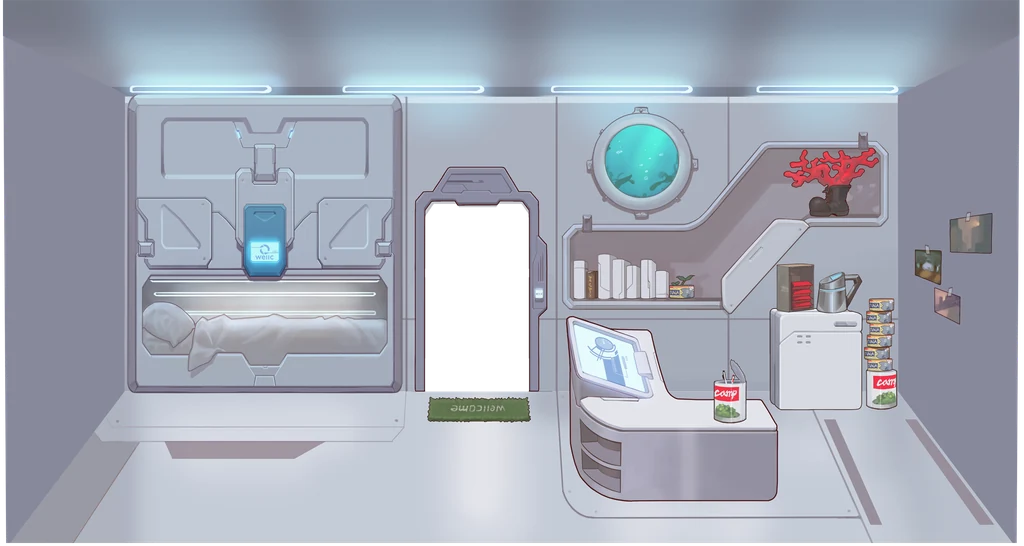
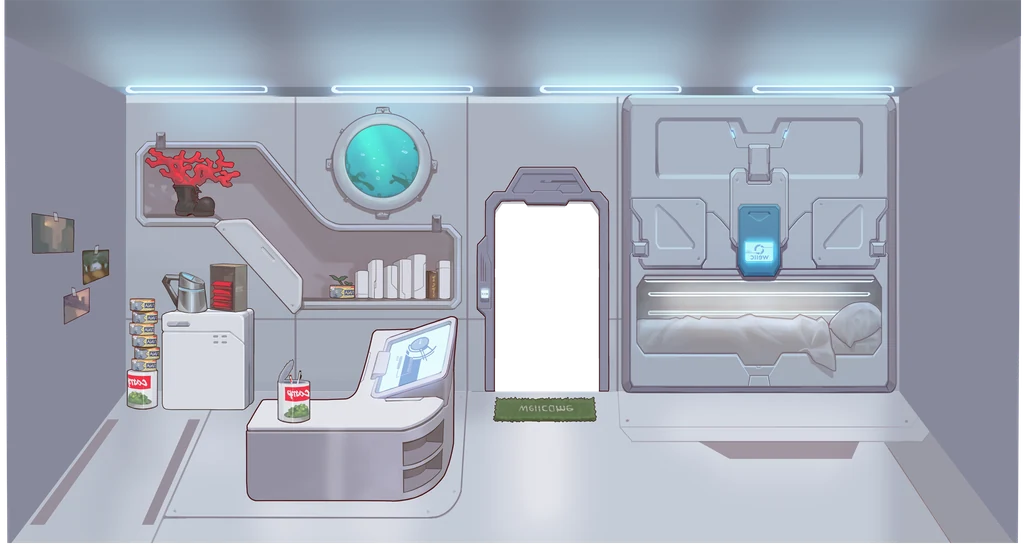
방·동굴 다듬기: 2장 철공 작업장은 원작 공장 내부, 3장 진지 지휘소는 원작 연구소 내부, 4장 드론 관제실은 어두운 시설 방, 함장실 그림을 뒤집어 깔개 글자를 바로, 방 이음선 없애기, 그림 속 받침대·책상 자리 막기, 4장 뒷벽을 동굴 바위와 종유석 천장으로

diff --git a/js/town.js b/js/town.js
@@ -134,8 +134,8 @@
       ],
       rooms: {
         cmd: Object.assign(ROOM('작업 지휘소', 'r_mm4_0', 365, ['#5a5a66', '#a9a7b8'], [D('town/r_mm4_11', 1, 2, 2, 1.7), D('town/r_mk0_3', 9, 2, 1, 1.5), D('town/r_andr2_42', 11, 2, 1, 1.6), D('town/r_iron1_7', 4, 6, 2, 0.8)]), { tint: '#ffe4c8' }),
-        shop: Object.assign(ROOM('철공 작업장', 'r_rein1_0', 355, ['#6b5552', '#b59d96'], [D('town/r_iron2_2', 1, 2, 2, 1.9), D('town/r_iron1_6', 10, 2, 2, 1.6), D('town/r_iron1_15', 10, 5, 2, 1.3)]), { tint: '#ffd9b8' }),
-        cafe: ROOM('배식소', 'r_cafe1_0', 268, ['#8f877a', '#ece7de'], [D('town/r_cafe1_2', 8, 2, 3, 1.9), D('town/r_cafe1_1', 4, 4, 3, 1.0), D('town/r_cafe1_1', 8, 5, 3, 1.0), D('town/r_cafe3_2', 1, 2, 1, 1.0), D('town/r_cafe2_3', 2, 2, 1, 0.6)]),
+        shop: Object.assign(ROOM('철공 작업장', 'r_factory', 355, ['#6b5552', '#b59d96'], [D('town/r_iron2_2', 1, 2, 2, 1.9), D('town/r_iron1_6', 10, 2, 2, 1.6), D('town/r_iron1_15', 10, 5, 2, 1.3)]), { tint: '#ffd9b8' }),
+        cafe: Object.assign(ROOM('배식소', 'r_cafe1_0', 268, ['#8f877a', '#ece7de'], [D('town/r_cafe1_2', 8, 2, 3, 1.9), D('town/r_cafe1_1', 4, 4, 3, 1.0), D('town/r_cafe1_1', 8, 5, 3, 1.0), D('town/r_cafe3_2', 1, 2, 1, 1.0), D('town/r_cafe2_3', 2, 2, 1, 0.6)]), { tint: '#ead8ba' }),
       },
     },
     // 3장 고갯길 진지: 81번 실험장 정문 앞 버려진 고갯마을. 빈집 셋을 진지로 쓰고, 모래주머니 기관총 진지와 모닥불
@@ -159,7 +159,7 @@
         EXIT(12, 17), ...NPC([13, 11], [9, 11], [20, 13]), CON(14, 16),
       ],
       rooms: {
-        cmd: ROOM('진지 지휘소', 'r_dis1_0', 355, ['#3f6b62', '#8fc0b3'], [D('town/r_mm2_2', 2, 2, 1, 1.6), D('town/r_dis1_10', 11, 2, 1, 1.8), D('tiles/crate1', 1, 6, 1, 1.0)]),
+        cmd: ROOM('진지 지휘소', 'r_lab', 355, ['#3f6b62', '#8fc0b3'], [D('town/r_mm2_2', 2, 2, 1, 1.6), D('town/r_dis1_10', 11, 2, 1, 1.8), D('tiles/crate1', 1, 6, 1, 1.0)]),
         shop: Object.assign(ROOM('무기고', 'r_rein2_0', 370, ['#6b5552', '#b59d96'], [D('town/r_res2_16', 1, 2, 1, 2.0), D('town/r_res1_8', 11, 2, 1, 1.8), D('tiles/crate1', 10, 5, 1, 1.0)]), { tint: '#eef2dc' }),
         cafe: Object.assign(ROOM('야전 식당', 'r_cafe2_0', 268, ['#8f877a', '#ece7de'], [D('town/r_cafe2_1', 3, 4, 3, 1.0), D('town/r_cafe2_3b', 8, 2, 3, 1.3), D('town/r_cafe2_2', 8, 5, 3, 1.0), D('town/r_cafe2_3', 1, 2, 1, 0.6), D('town/r_cafe2_1', 3, 6, 3, 1.0), D('town/r_cafe3_2', 11, 2, 1, 1.0), D('town/r_cafe1_1', 8, 7, 3, 1.0, { block: 0 })]), { tint: '#f1e0c0' }),
       },
@@ -173,7 +173,7 @@
       floor: { base: 'tiles/cave', zone: 'tiles/concrete', path: 'tiles/labd', wall: 'tiles/cave', back: '#10161a', zoneA: 0.55 },
       sky: ['#05080b', '#0f1a20'], dark: 0.56, torch: 1, water: 'canal', fx: 'drip', start: [12, 16],
       lights: [[6, 13, 150, '255,150,90'], [3, 3.4, 150, '255,90,60'], [9, 3.6, 120, '120,220,230'], [16, 3.6, 120, '120,220,230'], [22, 3.4, 150, '255,90,60']],
-      back: [{ art: 'town/t4_wall', by: 4.1, h: 3.8, repeat: 1 }],
+      back: [{ art: 'town/t4_cave', by: 4.15, h: 4.6, repeat: 1 }, { art: 'town/t4_ceil', by: 1.1, h: 1.1, repeat: 1 }],
       objects: [
         BLD('cmd', 'town/t4_cmd', 3, 6, 3, 3, 4, { plinth: 0, glow: '255,110,50' }), BLD('shop', 'town/t4_shop', 14, 6, 8, 3, 17, { plinth: 0, glow: '120,255,240' }), BLD('cafe', 'town/t2_booth', 3, 12, 6, 3, 6, { plinth: 0, glow: '255,200,140' }),
         D('tiles/crystal0', 1, 10, 1, 2.0, { lit: [130, '90,230,220'] }), D('tiles/crystal1', 22, 12, 2, 1.8, { lit: [140, '120,240,230'] }), D('tiles/crystal0', 10, 16, 1, 1.5, { lit: [100, '90,230,220'] }),
@@ -186,7 +186,7 @@
         EXIT(12, 17), ...NPC([12, 11], [10, 11], [20, 10]), CON(14, 15),
       ],
       rooms: {
-        cmd: Object.assign(ROOM('드론 관제실', 'r_secret', 556, ['#3c5a5c', '#88a9ab'], [D('town/r_mk4_1', 1, 6, 1, 1.4), D('town/r_mm2_2', 11, 7, 1, 1.5)]), { floorTex: 'tiles/labd', tint: '#a9bcc6' }),
+        cmd: Object.assign(ROOM('드론 관제실', 'r_mm0_0', 556, ['#3c5a5c', '#88a9ab'], [D('town/r_mk4_1', 1, 6, 1, 1.4), D('town/r_mm2_2', 11, 7, 1, 1.5)]), { floorTex: 'tiles/labd', tint: '#a9bcc6' }),
         shop: Object.assign(ROOM('드론 격납고', 'r_parts_1', 365, ['#55606e', '#9aa6b6'], [D('town/r_iron1_5b', 1, 2, 1, 1.9), D('town/r_iron2_16', 11, 2, 1, 2.2)]), { tint: '#9fb6be' }),
         cafe: Object.assign(ROOM('보급고 휴게실', 'r_ware', 552, ['#8f877a', '#ece7de'], [D('town/r_cafe5_1', 4, 4, 3, 1.1), D('town/r_cafe2_1', 8, 4, 3, 1.0), D('town/r_cafe3_2', 11, 3, 1, 1.0)]), { floorTex: 'tiles/factory', tint: '#b9c6cc' }),
       },
@@ -223,13 +223,13 @@
         R(0, 0, 26, 5, 'b'); R(0, 0, 1, 18, '#'); R(25, 0, 1, 18, '#'); R(0, 17, 26, 1, '#');
         R(7, 10, 11, 6, 's'); R(1, 9, 24, 1, '_'); R(12, 9, 2, 9, '_'); R(14, 15, 5, 1, '_'); R(21, 8, 1, 1, '_');
       }),
-      floor: { base: 'town/g_snow', zone: 'town/g_snowpath', path: 'town/g_snowpath', wall: 'town/g_snowpath', back: '#cfd9e3', pathA: 0.9, edge: 'rgba(120,140,170,.22)', wallDark: 0.06 },
+      floor: { base: 'town/g_snow', zone: 'town/g_snowpath', path: 'town/g_snowpath', wall: 'town/g_snowpath', back: '#cfd9e3', pathA: 0.45, edge: 'rgba(120,140,170,.22)', wallDark: 0.06 },
       sky: ['#8ea6c2', '#eef3f8'], dark: 0.12, darkC: '30,45,80', fx: 'snow', start: [12, 16],
       back: [{ art: 'town/t6_mount', by: 3.6, h: 5.4, x: 7 }, { art: 'town/t6_mount', by: 3.4, h: 4.2, x: 20, flip: 1, alpha: 0.85 },
         { art: 'town/t6_trees', by: 5.0, h: 3.4, x: 2.5 }, { art: 'town/t6_tree0', by: 4.9, h: 3.2, x: 23.5 }, { art: 'town/t6_tree2', by: 4.8, h: 2.6, x: 17.5 },
         { art: 'town/t6_fence', by: 5.1, h: 1.15, repeat: 1 }],
       objects: [
-        BLD('cmd', 'town/t6_cmd', 1, 6, 8, 3, 5, { plinth: 0 }), BLD('shop', 'town/t6_lab', 19, 5, 5, 3, 21, { plinth: 0, glow: '255,214,150' }), BLD('cafe', 'town/t6_cafe', 15, 12, 5, 3, 18, { plinth: 0 }),
+        BLD('cmd', 'town/t6_cmd', 1, 6, 8, 3, 5, { plinth: 0 }), BLD('shop', 'town/t6_lab', 19, 6, 5, 3, 21, { plinth: 0, glow: '255,214,150' }), BLD('cafe', 'town/t6_cafe', 15, 12, 5, 3, 18, { plinth: 0 }),
         FIRE(11, 12), D('town/t0_lamp', 9, 8, 1, 2.2, { lit: [130, '255,210,150'] }), D('town/t0_lamp', 17, 8, 1, 2.2, { lit: [130, '255,210,150'] }), D('town/t0_lamp', 14, 16, 1, 2.0, { lit: [120, '255,210,150'], flip: 1 }),
         D('town/t6_post', 10, 16, 1, 1.5), D('town/t6_mound', 1, 13, 3, 1.9), D('town/t6_rock', 21, 10, 1, 0.6), D('town/t6_rock', 6, 15, 1, 0.55),
         D('town/t6_grass0', 3, 10, 2, 0.8, { block: 0 }), D('town/t6_grass1', 19, 16, 1, 1.0, { block: 0 }), D('town/t6_grass0', 22, 13, 2, 0.8, { block: 0 }), D('town/t6_bush', 8, 16, 1, 1.6),
@@ -253,11 +253,12 @@
   const STAGE = {
     r_train_0: { fl: 335, h: 512 }, r_dis2_0: { fl: 335, h: 512, blk: [[0.66, 1]] }, r_mm4_0: { fl: 395, h: 512, blk: [[0.06, 0.27], [0.43, 0.63], [0.88, 1]] },
     r_rein1_0: { fl: 360, h: 512 }, r_dis1_0: { fl: 360, h: 512 }, r_rein2_0: { fl: 345, h: 512, blk: [[0.66, 1]] },
-    r_parts_1: { fl: 370, h: 512, blk: [[0, 0.17]] }, r_rein3_0: { fl: 345, h: 512, blk: [[0.66, 1]] },
-    r_cap: { fl: 425, h: 546, blk: [[0.6, 0.79]] }, r_arch: { fl: 425, h: 552, blk: [[0, 0.16]] }, r_secret: { fl: 425, h: 556 },
+    r_parts_1: { fl: 370, h: 512, blk: [[0, 0.17], [0.22, 0.74]] }, r_rein3_0: { fl: 345, h: 512, blk: [[0.66, 1]] },
+    r_cap: { fl: 425, h: 546, blk: [[0.18, 0.44]] }, r_mm0_0: { fl: 370, h: 512 },
+    r_factory: { fl: 525, h: 750, back: '#c3ccd8' }, r_lab: { fl: 410, h: 505 }, r_arch: { fl: 425, h: 552, blk: [[0, 0.16]] }, r_secret: { fl: 425, h: 556 },
     r_ware: { fl: 430, h: 552, blk: [[0, 0.2], [0.82, 1]] }, r_bio: { fl: 415, h: 498 },
-    r_cafe1_0: { fl: 232, h: 340, w: 24 }, r_cafe2_0: { fl: 232, h: 340, w: 24 }, r_cafe3_0: { fl: 232, h: 340, w: 24 },
-    r_cafe4_0: { fl: 232, h: 340, w: 24 }, r_cafe5_0: { fl: 232, h: 340, w: 24 },
+    r_cafe1_0: { fl: 232, h: 340 }, r_cafe2_0: { fl: 232, h: 340 }, r_cafe3_0: { fl: 232, h: 340 },
+    r_cafe4_0: { fl: 232, h: 340 }, r_cafe5_0: { fl: 232, h: 340 },
   };
   // 사람 자리 (가로 비율, 바닥 첫 줄에서 몇 줄 아래)
   const STAGE_NPC = { cmd: [['johanna', 0.6, 0], ['marie', 0.3, 1], ['labiata', 0.76, 1]], shop: [['fortune', 0.5, 0], ['pupphead', 0.26, 1], ['coco', 0.72, 1]], cafe: [['amy', 0.22, 1], ['scathy', 0.8, 1]] };
@@ -269,9 +270,10 @@
     const blocked = (x) => x < 1 || x > W - 2 || (st.blk || []).some(([a, b]) => (x + 0.5) / W > a && (x + 0.5) / W < b);
     const rows = [];
     for (let y = 0; y < H; y++) { let r = ''; for (let x = 0; x < W; x++) r += y < r0 || blocked(x) ? '#' : 'M'; rows.push(r); }
-    const mx = Math.floor(W / 2), free = (x) => { for (let d = 0; d < W; d++) for (const s of [1, -1]) { const t = x + d * s; if (t > 0 && t < W - 1 && !blocked(t) && t !== mx) return t; } return x; };
+    const mid = Math.floor(W / 2), mx = blocked(mid) ? [...Array(W).keys()].filter((x) => !blocked(x)).sort((a, b) => Math.abs(a - mid) - Math.abs(b - mid))[0] : mid;
+    const free = (x) => { for (let d = 0; d < W; d++) for (const s of [1, -1]) { const t = x + d * s; if (t > 0 && t < W - 1 && !blocked(t) && t !== mx) return t; } return x; };
     const objects = [{ t: 'exit', x: mx, y: H - 1, w: 1, h: 1, to: 'back' }, ...STAGE_NPC[k].map(([id, fx, dy]) => ({ t: 'npc', id, x: free(Math.round(fx * W)), y: Math.min(H - 2, r0 + dy), dir: fx > 0.5 ? -1 : 1 }))];
-    return { name, rows, indoor: 1, stage: { bg: bgPath, fl: st.fl, h: st.h, sc, top0, floorH, off }, bg: bgPath, tint, spawn: [mx, H - 2], objects };
+    return { name, rows, indoor: 1, stage: { bg: bgPath, fl: st.fl, h: st.h, sc, top0, floorH, off, back: st.back }, bg: bgPath, tint, spawn: [mx, H - 2], objects };
   }
   const ROOMBG0 = { cmd: 'town/r_train_0', shop: 'town/r_dis2_0', cafe: 'town/r_cafe4_0' }; // 1장
   function baseFor(look, name) {
@@ -399,7 +401,7 @@
       const at = (x, y) => (test(map.rows[Math.max(0, Math.min(map.h - 1, y))][Math.max(0, Math.min(map.w - 1, x))]) ? 1 : 0);
       const m = document.createElement('canvas'); m.width = SW; m.height = SH;
       const mg = m.getContext('2d'), id = mg.createImageData(SW, SH), D = id.data;
-      const amp = Math.min(0.32, blur / TILE), soft = 0.06 + Math.min(0.2, (blur / TILE) * 0.35);
+      const amp = Math.min(0.32, Math.max(0.16, blur / TILE)), soft = 0.06 + Math.min(0.2, (blur / TILE) * 0.35);
       for (let py = 0; py < SH; py++) for (let px = 0; px < SW; px++) {
         const u = ((px + 0.5) * STEP) / TILE - 0.5, v = ((py + 0.5) * STEP) / TILE - 0.5;
         const xi = Math.floor(u), yi = Math.floor(v), fx = sstep(u - xi), fy = sstep(v - yi);
@@ -494,10 +496,11 @@
   function drawStage(g) {
     const st = map.stage, im = img(st.bg), mw = map.w * TILE, mh = map.h * TILE;
     g.fillStyle = '#05070c'; g.fillRect(0, 0, mw, mh);
+    if (st.back) { g.fillStyle = st.back; g.fillRect(0, st.off, mw, st.top0); } // 그림의 뚫린 창·하늘 자리
     if (ok(im)) {
       const k = im.width / 1024;
-      g.drawImage(im, 0, 0, im.width, st.fl * k, 0, st.off, mw, st.top0);
       g.drawImage(im, 0, st.fl * k, im.width, (st.h - st.fl) * k, 0, st.off + st.top0, mw, st.floorH);
+      g.drawImage(im, 0, 0, im.width, st.fl * k + 2, 0, st.off, mw, st.top0 + 2 * st.sc); // 바닥과 2픽셀 겹쳐 이음선이 안 보이게
     }
     const sg = g.createLinearGradient(0, mh - TILE * 1.2, 0, mh); sg.addColorStop(0, 'rgba(0,0,0,0)'); sg.addColorStop(1, 'rgba(0,0,0,.35)');
     g.fillStyle = sg; g.fillRect(0, mh - TILE * 1.2, mw, TILE * 1.2);

diff --git a/tools/build_town.py b/tools/build_town.py
@@ -86,6 +86,8 @@ PIECES = {
     'd_crack2': ('IW/IW_Ground_Crack_B_Final.png', 154, 137, 1785, 429, 480),
     'd_grate': (SUB, 1316, 789, 363, 73, 200),
     # 여러 장에서 함께 쓰는 소품
+    't4_cave': ('IW/IW_BG_Final.png', 0, 0, 4500, 1952, 1600),  # 동굴 바위 벽
+    't4_ceil': ('IW/IW_Ceiling_Near_View 01_Final.png', 0, 0, 9562, 766, 1600),  # 종유석 천장
     't0_lamp': (SUB, 11, 775, 177, 484, 240),  # 공원 가로등
     't0_mgnest': ('BG_OBJ/defense_line.png', 35, 558, 968, 442, 480),
 }
@@ -174,7 +176,10 @@ ROOMBG = {
     'r_secret': ('UI_Facility/Room_Secret.png', 1112),
     'r_ware': ('UI_Facility/Room_Warehouse.png', 1104),
     'r_bio': ('BG_Ch10_Biological Laboratory/Biological Laboratory (2).png', 996),
+    'r_factory': ('BG_07_Factory_inside/Factory_Wall_floor_all_N.png', 1500),
+    'r_lab': ('BG_12_Laboratory_in/BG_Laboratory_in_m.png', 1010),
 }
+FLIP = {'r_cap'}  # 원작 그림의 문 앞 깔개 글자가 좌우로 뒤집혀 있어 그림을 뒤집는다
 
 
 def main():
@@ -202,7 +207,10 @@ def main():
         add_snow(shrink(cut(src, x, y, w, h), n)).save(os.path.join(OUT, name + '.webp'), quality=90, method=6)
     for name, (src, h) in ROOMBG.items():
         im = Image.open(B + src).convert('RGBA').crop((0, 0, 2048, h))
-        shrink(im, 1024).save(os.path.join(OUT, name + '.webp'), quality=88, method=6)
+        im = shrink(im, 1024)
+        if name in FLIP:
+            im = im.transpose(Image.FLIP_LEFT_RIGHT)
+        im.save(os.path.join(OUT, name + '.webp'), quality=88, method=6)
     puddle().save(os.path.join(OUT, 'd_puddle.webp'), quality=90)
     for name, (src, x, y, w, h) in GROUND.items():
         im = Image.open(B + src).convert('RGB').crop((x, y, x + w, y + h)).resize((512, 512), Image.LANCZOS)
